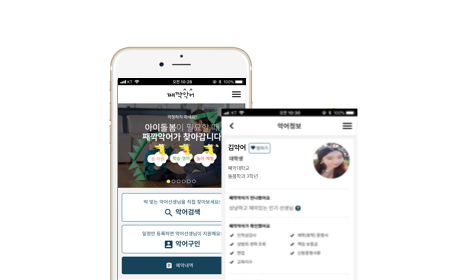
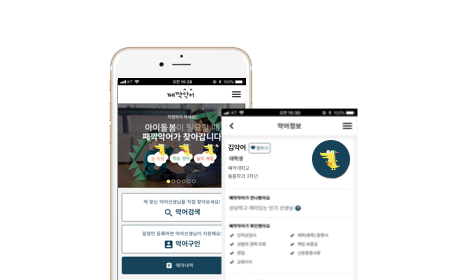
jinyoungkwon.com 2018 v.1.1
add qualson, tictoc

Changed region(s): [[0.6553, 0.4857, 0.7447, 0.6571]]

diff --git a/works/qualson.html b/works/qualson.html
@@ -30,19 +30,36 @@
 		<!-- intro -->
 		<div class="row works">
 			<div class="col-md-4 works-title">
-				<div class="title">knowre<br><span style="font-size:18px;">연산노리 프로젝트</span></div>
+				<div class="title">리얼클래스/<br>브릿잉글리쉬</div>
 			</div>
 			<div class="col-md-8 works-info">
-				<div class="sub-title">2015.5 - 2017.5</div>
+				<div class="sub-title">2018.3 - 2018.11</div>
 				<br>-<br><br>
 				<div class="sub-title">UX기획</div>
-				<p>· iOS, 안드로이드 태블릿 연산학습 앱 UX기획<br>· 학생관리 대시보드 및 학습리포트 UX기획</p>
-				<div class="sub-title">제품관리</div>
-				<p>· UX리서치 (2개월) <br>· 프로토타입 개발 (6개월) <br>· 베타버전 개발 (4개월) <br>· 파일럿테스트 (6개월) <br>· 런칭버전 개발 및 운영 (7개월) </p>
+				<p>리얼클래스 2019 신년개편 UX기획
+				<br>· 365일 챌린지 기획<br>· 기타 웹/모바일앱 UX 개선
+				<br><a class="url" href="https://www.realclass.co.kr/"  target="_blank">https://www.realclass.co.kr/</a></p>
+				</p>
+				<p>신규 서비스 '브릿잉글리쉬' UX기획
+				<br>· 음성인식 기반의 학습단계 '코칭' UX기획
+				<br>· 웹 학습화면 UX기획
+				<br>· 학습 컨텐츠 소개 페이지 및 소개 영상 기획
+				<br><a class="url" href="https://britenglish.co.kr/"  target="_blank">https://britenglish.co.kr/</a></p>
+				<br>
+				<div class="sub-title">마케팅</div>
+				<p>리얼클래스 디지털 마케팅 소재 기획 및 지표 분석</p>
 				<br>-<br><br>
-				<p>에듀테크 스타트업 knowre에서 연산노리 프로젝트에서 UX기획/제품관리를 하였습니다. 태블릿연산수학교육 앱 연산노리는 종이학습지 경험과 유사한 직관적인 UX, 학생의 학습 성취도에 맞추어 학습 진도가 조절되는 개인화 학습과 학생들의 눈높이에 맞춘 게이미피케이션을 통해 연산수학을 보다 효율적이고 재미있게 학습하도록 설계하였습니다. 지속적인 사용자테스트를 통해 제품을 개선하고 검증하여 수학교육복합센터 '노리스퀘어'에서 정식 런칭하였습니다. <br><br>
-				<a class="url" href="https://knowresquare.kr/knowre.html"  target="_blank">https://knowresquare.kr/knowre.html</a></p>
-				<img src="/img/works_knowre.png?new" style="margin-top:15px;">
+				<p>영상IP기반 영어 학습 컨텐츠를 만드는 에듀테크 스타트업 '퀄슨'에서 '리얼클래스' UX기획과 마케팅, '브릿잉글리쉬' UX기획에 참여하였습니다.</p><br><br>
+
+				<img src="/img/works_real.png" style="margin-top:15px;">
+				<div class="row">
+					<div class="col-md-9">
+						<img src="/img/works_brit.png?new" style="margin-top:15px;">
+					</div>
+					<div class="col-md-3">
+						<img src="/img/works_brit.gif" style="margin-top:15px;">
+					</div>
+				</div>
 			</div>
 		</div>
 		<!-- <div class="row works">
@@ -55,7 +72,6 @@
 	</div>
 	
 
-	<!-- footer -->
 	<!-- footer -->
 	<div id="footer" class="container">
 	  	<div class="row">

diff --git a/works/tictoc.html b/works/tictoc.html
@@ -30,19 +30,17 @@
 		<!-- intro -->
 		<div class="row works">
 			<div class="col-md-4 works-title">
-				<div class="title">knowre<br><span style="font-size:18px;">연산노리 프로젝트</span></div>
+				<div class="title">째깍악어</div>
 			</div>
 			<div class="col-md-8 works-info">
-				<div class="sub-title">2015.5 - 2017.5</div>
+				<div class="sub-title">2018.10 - 2019.2</div>
 				<br>-<br><br>
-				<div class="sub-title">UX기획</div>
-				<p>· iOS, 안드로이드 태블릿 연산학습 앱 UX기획<br>· 학생관리 대시보드 및 학습리포트 UX기획</p>
-				<div class="sub-title">제품관리</div>
-				<p>· UX리서치 (2개월) <br>· 프로토타입 개발 (6개월) <br>· 베타버전 개발 (4개월) <br>· 파일럿테스트 (6개월) <br>· 런칭버전 개발 및 운영 (7개월) </p>
+				<div class="sub-title">UX기획 / 디자인 / 프론트엔드 개발<br><span style="color:grey; font-size:10px">HTML, CSS, JavaScript, php</span></div>
+				<p>· 로그인 서비스 플로우, 메뉴 변경<br>· 브랜드 컬러로 앱 UI 컬러 통합<br>· 간편결제 기능 추가<br>· 기타 UX 개선<br><br>
 				<br>-<br><br>
-				<p>에듀테크 스타트업 knowre에서 연산노리 프로젝트에서 UX기획/제품관리를 하였습니다. 태블릿연산수학교육 앱 연산노리는 종이학습지 경험과 유사한 직관적인 UX, 학생의 학습 성취도에 맞추어 학습 진도가 조절되는 개인화 학습과 학생들의 눈높이에 맞춘 게이미피케이션을 통해 연산수학을 보다 효율적이고 재미있게 학습하도록 설계하였습니다. 지속적인 사용자테스트를 통해 제품을 개선하고 검증하여 수학교육복합센터 '노리스퀘어'에서 정식 런칭하였습니다. <br><br>
-				<a class="url" href="https://knowresquare.kr/knowre.html"  target="_blank">https://knowresquare.kr/knowre.html</a></p>
-				<img src="/img/works_knowre.png?new" style="margin-top:15px;">
+				<p>찾아가는 아이돌봄 서비스 플랫폼 '째깍악어' 모바일 앱의 개편 프로젝트에 참여하여 UX기획 및 프론트엔드 개발을 하였습니다.</p>
+					
+				<img src="/img/works_tictoc.png" style="margin-top:15px;">
 			</div>
 		</div>
 		<!-- <div class="row works">
@@ -55,7 +53,6 @@
 	</div>
 	
 
-	<!-- footer -->
 	<!-- footer -->
 	<div id="footer" class="container">
 	  	<div class="row">

diff --git a/works/homepage.html b/works/homepage.html
@@ -39,14 +39,14 @@
 				<br>-<br><br>
 				<p>짜맞춤 가구를 만드는 느긋목공방의 간단한 소개 페이지를 제작하였습니다.</p>
 				<a class="url" href="http://bit.ly/slowww_" target="_blank">http://bit.ly/slowww_</a>
-				<img src="/img/works_slow.png">
+				<img src="/img/works_slow.png?new">
 				<hr style="margin:50px 0; border:solid 0.5px darkgray">
 				<div class="sub-title">2014.8 - 2014.11</div>
 				<br>-<br><br>
 				<div class="sub-title">(주)디지큐 홈페이지 기획 / 개발</div>
 				<br>-<br><br>
 				<p>전국편의점유통망을 이용하여 선불PIN, 기프트카드 등 각종 디지털상품 유통 및 온/오프라인을 연계한 각종 생활편의서비스를 제공하는 (주)디지큐의 홈페이지 기획/개발을 하였습니다.</p><p class="url">홈페이지는 현재 폐쇄되었습니다.</p>
-				<img src="/img/works_digiq.png">
+				<img src="/img/works_digiq.png?new">
 				<hr style="margin:50px 0; border:solid 0.5px darkgray">
 				<div class="sub-title">2014.3 - 2014.5</div>
 				<br>-<br><br>
@@ -54,7 +54,7 @@
 				<br>-<br><br>
 				<p>현대언어학을 기반으로 만든 영문법인 '해석이론' 시리즈를 강의하는 인터넷 영어강의 사이트 잉글리시비주얼 개편 프로젝트에 참여하여 사이트 UX를 개선하였습니다.</p>
 				<br><a class="url" href="https://www.englishvisual.com/" target="_blank">https://www.englishvisual.com/</a>
-				<img src="/img/works_ev.png">
+				<img src="/img/works_ev.png?new">
 			</div>
 		</div>
 	</div>

diff --git a/works/mmt.html b/works/mmt.html
@@ -35,22 +35,17 @@
 			<div class="col-md-8 works-info">
 				<div class="sub-title">2013.1 - 2014.2</div>
 				<br>-<br><br>
-				<div class="sub-title">DB관리 및 프론트엔드 개발<br><span style="color:grey; font-size:10px">MySQL, HTML, CSS, JavaScript, Python</span></div>
-				<p>소셜 뮤직플레이어 '미로니' DB관리<br>MyMusicTaste 프론트엔드 개발<br>MyMusicTaste 데이터 분석 페이지 기획/개발</p>
+				<div class="sub-title">DB관리 / 프론트엔드 개발<br><span style="color:grey; font-size:10px">MySQL, HTML, CSS, JavaScript, Python</span></div>
+				<p>· 소셜 뮤직플레이어 '미로니' DB관리<br>· MyMusicTaste 홈페이지 프론트엔드 개발<br>· MyMusicTaste 데이터 분석 페이지 기획/개발</p>
 
 				<br>-<br><br>
 				<p>팬 중심 크라우드 콘서트 메이킹 플랫폼 MyMusicTaste 개발팀에서 DB관리 및 프론트엔드 개발을 하였습니다.</p>
 				<a class="url" href="https://www.mymusictaste.com/" target="_blank">https://www.mymusictaste.com/</a>
+				<img src="/img/works_mmt.png?new">
 			</div>
 			
 		</div>
 
-		
-		<div class="row works">
-			<div class="col-md-12">
-				<img src="/img/works_mmt.png">
-			</div>
-		</div>
 	</div>
 	
 

diff --git a/index.html b/index.html
@@ -36,7 +36,7 @@
 		<div class="row big-row">
 			<a class="col-md-6 col-sm-12 content-box" href="/works/knowre">
 				<div class="bg-box">
-					<img src="/img/thumnail_knowre.png">
+					<img src="/img/thumnail_knowre.png?new">
 					<div class="bg-box-overlay">
 						<p class="title">knowre</p>
 					</div>
@@ -56,7 +56,7 @@
 				<div class="row small-row">
 					<a class="col-md-12 content-box" href="/works/mmt">
 						<div class="bg-box">
-							<img src="/img/thumnail_mmt.png">
+							<img src="/img/thumnail_mmt.png?new">
 							<div class="bg-box-overlay">
 								<p class="title">MyMusicTaste</p>
 							</div>
@@ -70,7 +70,7 @@
 			
 			<a class="col-md-4 content-box" href="/works/tictoc">
 				<div class="bg-box">
-					<img src="/img/thumnail_tt.png">
+					<img src="/img/thumnail_tt.png?new">
 					<div class="bg-box-overlay">
 						<p class="title">째깍악어</p>
 					</div>
@@ -86,7 +86,7 @@
 			</a>
 			<a class="col-md-4 content-box" href="/works/cycle">
 				<div class="bg-box">
-					<img src="/img/thumnail_cycle.png">
+					<img src="/img/thumnail_cycle.png?new">
 					<div class="bg-box-overlay">
 						<p class="title">cycle</p>
 					</div>

diff --git a/works/cycle.html b/works/cycle.html
@@ -35,7 +35,7 @@
 			<div class="col-md-8 works-info">
 				<div class="sub-title">2017.8 - <p style="color:darkgrey">현재 개발 중</p></div>
 				<br>-<br><br>
-				<div class="sub-title">UX디자인 및 프로토타입 개발<br><span style="color:grey; font-size:10px">Sketch, Framer</span></div>
+				<div class="sub-title">UX기획 / 디자인 / 프로토타입 개발<br><span style="color:grey; font-size:10px">Sketch, Framer</span></div>
 				<br>-<br><br>
 				<p>Cycle(가제)은 생리주기 기록 어플리케이션으로, 몸의 순환작용을 달의 주기에 빗대어 달의 차고 비워지는 모습을 통해 자신의 몸에 대한 이해를 도울 수 있도록 설계하였습니다.</p>
 			</div>
